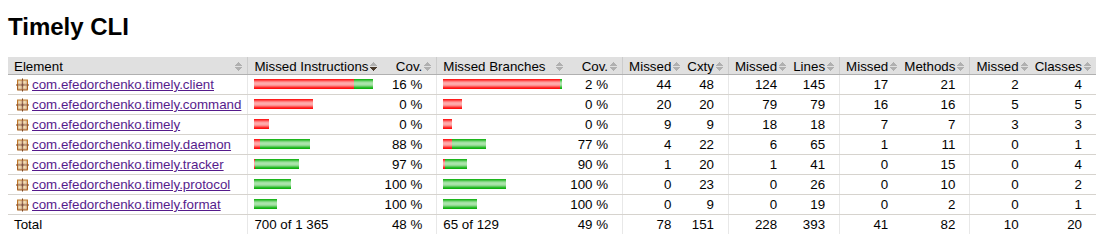
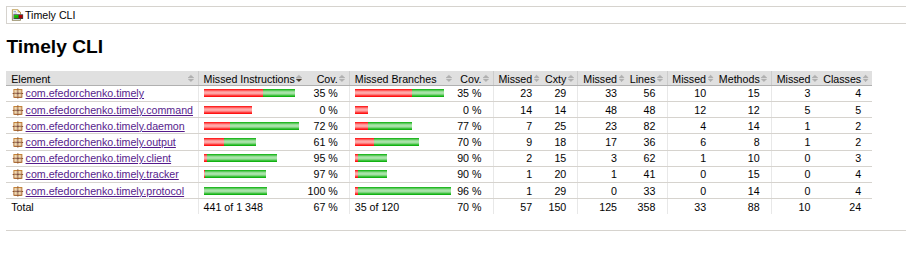
dev: prepared release 1.0

diff --git a/src/main/java/com/efedorchenko/timely/command/DaemonCommand.java b/src/main/java/com/efedorchenko/timely/command/DaemonCommand.java
@@ -13,7 +13,7 @@ import static java.lang.IO.println;
 
 /**
  * Запуск daemon в prod-режиме.
- *
+ * <p>
  * Как это работает:
  * {@code timely demon} запускает {@link #runBackground()}, который запускает {@code timely demon --foreground},
  * ждем пока в фоновом процессе запустится настоящий демон и завершается. Демон продолжает работать в процессе,
@@ -33,7 +33,7 @@ import static java.lang.IO.println;
  *
  * Флаг --foreground скрыт от пользователя, используется только
  * для запуска сервера в фоновом процессе.
- *
+ * <p>
  * Не покрыт unit-тестами - зависит от ProcessBuilder и fork процесса.
  * Компоненты (DaemonServer, DaemonClient, Tracker) протестированы отдельно.
  * Да и просто ProcessBuilder, ShutdownHook и тд тестить - быстрее с ума сойти

diff --git a/src/main/java/com/efedorchenko/timely/client/DaemonClient.java b/src/main/java/com/efedorchenko/timely/client/DaemonClient.java
@@ -13,7 +13,7 @@ import java.net.Socket;
 
 /**
  * Клиент для общения с daemon.
- *
+ * <p>
  * Каждый вызов {@link #send} открывает новое соединение,
  * отправляет команду, читает ответ и закрывает соединение.
  */
@@ -54,7 +54,7 @@ public final class DaemonClient {
                 }
                 return response;
             }
-        } catch (ConnectException e) {
+        } catch (ConnectException _) {
             throw new DaemonNotRunningException();
         }
     }
@@ -64,7 +64,7 @@ public final class DaemonClient {
         try {
             String answer = send(Protocol.CMD_PING);
             return Protocol.RESP_PONG.equals(answer);
-        } catch (IOException e) {
+        } catch (IOException _) {
             return false;
         }
     }

diff --git a/src/test/java/com/efedorchenko/timely/client/TrackerServiceTest.java b/src/test/java/com/efedorchenko/timely/client/TrackerServiceTest.java
@@ -1,6 +1,7 @@
 package com.efedorchenko.timely.client;
 
 import com.efedorchenko.timely.output.Printer;
+import org.junit.jupiter.api.AfterEach;
 import org.junit.jupiter.api.BeforeEach;
 import org.junit.jupiter.api.DisplayName;
 import org.junit.jupiter.api.Nested;
@@ -14,15 +15,23 @@ import static org.mockito.Mockito.*;
 
 class TrackerServiceTest {
 
-    @Mock DaemonClient client;
-    @Mock Printer printer;
+    @Mock
+    DaemonClient client;
+    @Mock
+    Printer printer;
 
     private TrackerService service;
+    private AutoCloseable mocks;
 
     @BeforeEach
     void setUp() {
-        MockitoAnnotations.openMocks(this);
+        mocks = MockitoAnnotations.openMocks(this);
         service = new TrackerService(client, printer);
+    }
+
+    @AfterEach
+    void tearDown() throws Exception {
+        mocks.close();
     }
 
     @Nested

diff --git a/src/main/java/com/efedorchenko/timely/protocol/Protocol.java b/src/main/java/com/efedorchenko/timely/protocol/Protocol.java
@@ -2,10 +2,10 @@ package com.efedorchenko.timely.protocol;
 
 /**
  * Протокол CLI ↔ Daemon. Текстовый, одна строка = одно сообщение.
- *
+ * <p>
  * Команды: ping, start, stop, status, shutdown
  * Ответы: timely, OK ..., ERROR ..., BYE ...
- *
+ * <p>
  * Содержит только константы команд/ответов и разбор типа команды.
  * Построение ответов - {@link ResponseEncoder}, разбор ответов - {@link ResponseDecoder}.
  */

diff --git a/src/main/java/com/efedorchenko/timely/AppFactory.java b/src/main/java/com/efedorchenko/timely/AppFactory.java
@@ -10,7 +10,7 @@ import picocli.CommandLine.IFactory;
 
 /**
  * Фабрика для picocli: собирает граф зависимостей в одном месте.
- *
+ * <p>
  * picocli вызывает {@link #create(Class)} для создания субкоманд.
  * Команды получают готовый {@link TrackerService}, а не создают зависимости сами.
  * Всё остальное (help, version provider и т.д.) делегируется стандартной фабрике.

diff --git a/src/main/java/com/efedorchenko/timely/daemon/DaemonServer.java b/src/main/java/com/efedorchenko/timely/daemon/DaemonServer.java
@@ -15,7 +15,7 @@ import java.util.Objects;
 
 /**
  * TCP-сервер daemon-процесса.
- *
+ * <p>
  * Слушает порт, принимает команды от CLI, выполняет через {@link TimeTracker}.
  * Обрабатывает соединения последовательно (одно за раз).
  * В dev-режиме выводит логи в консоль.

diff --git a/src/main/java/com/efedorchenko/timely/AppProperties.java b/src/main/java/com/efedorchenko/timely/AppProperties.java
@@ -50,7 +50,7 @@ public final class AppProperties {
         int value;
         try {
             value = Integer.parseInt(raw.strip());
-        } catch (NumberFormatException e) {
+        } catch (NumberFormatException _) {
             throw new ExceptionInInitializerError("Property " + key + " must be an integer, got: " + raw);
         }
         if (min != null && value < min) {

diff --git a/src/main/java/com/efedorchenko/timely/client/TrackerService.java b/src/main/java/com/efedorchenko/timely/client/TrackerService.java
@@ -8,7 +8,7 @@ import java.io.IOException;
 
 /**
  * Клиентский фасад для трекерных команд.
- *
+ * <p>
  * Владеет {@link DaemonClient}, выполняет команды.
  * Парсинг ответов — через {@link ResponseDecoder}. Форматирование вывода — в {@link Printer}.
  */

diff --git a/src/test/java/com/efedorchenko/timely/daemon/DaemonServerTest.java b/src/test/java/com/efedorchenko/timely/daemon/DaemonServerTest.java
@@ -37,7 +37,7 @@ class DaemonServerTest {
         serverThread = new Thread(() -> {
             try {
                 server.start();
-            } catch (IOException e) {
+            } catch (IOException _) {
                 // Сервер остановлен - ок
             }
         });

diff --git a/src/main/java/com/efedorchenko/timely/protocol/ResponseDecoder.java b/src/main/java/com/efedorchenko/timely/protocol/ResponseDecoder.java
@@ -38,7 +38,7 @@ public final class ResponseDecoder {
                     Long.parseLong(parts[2]),
                     Boolean.parseBoolean(parts[3])
             );
-        } catch (NumberFormatException e) {
+        } catch (NumberFormatException _) {
             return null;
         }
     }
